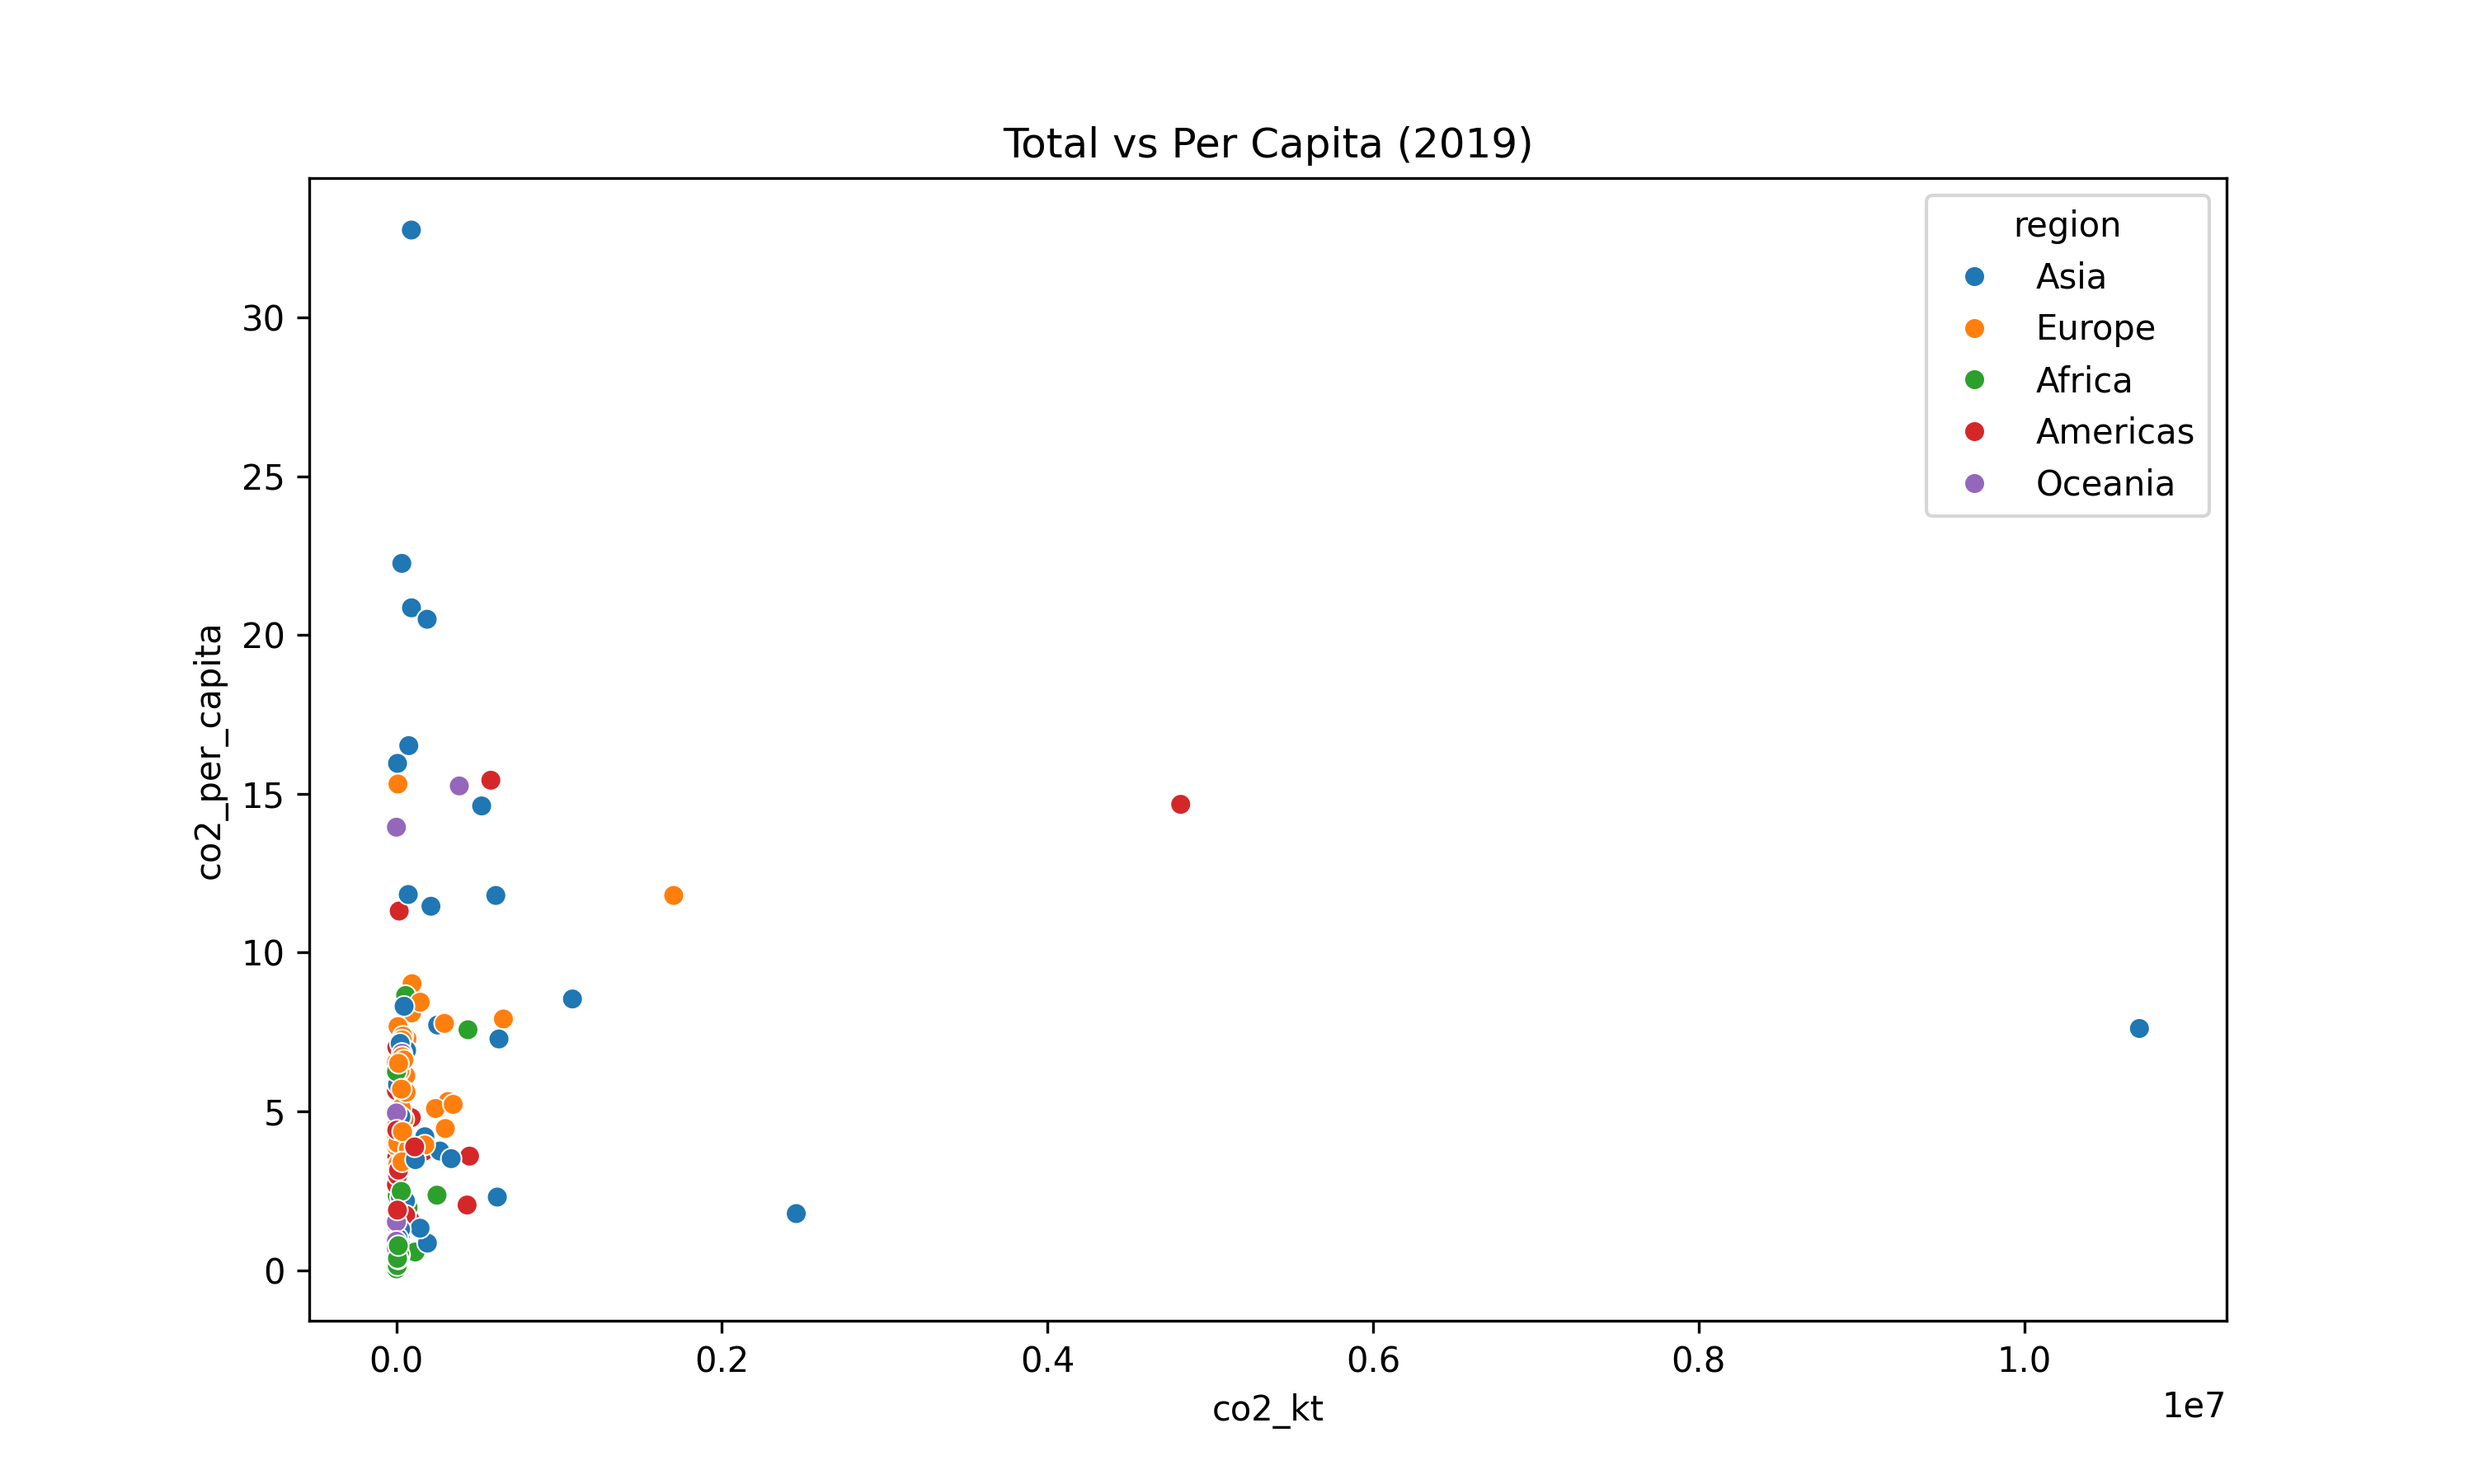
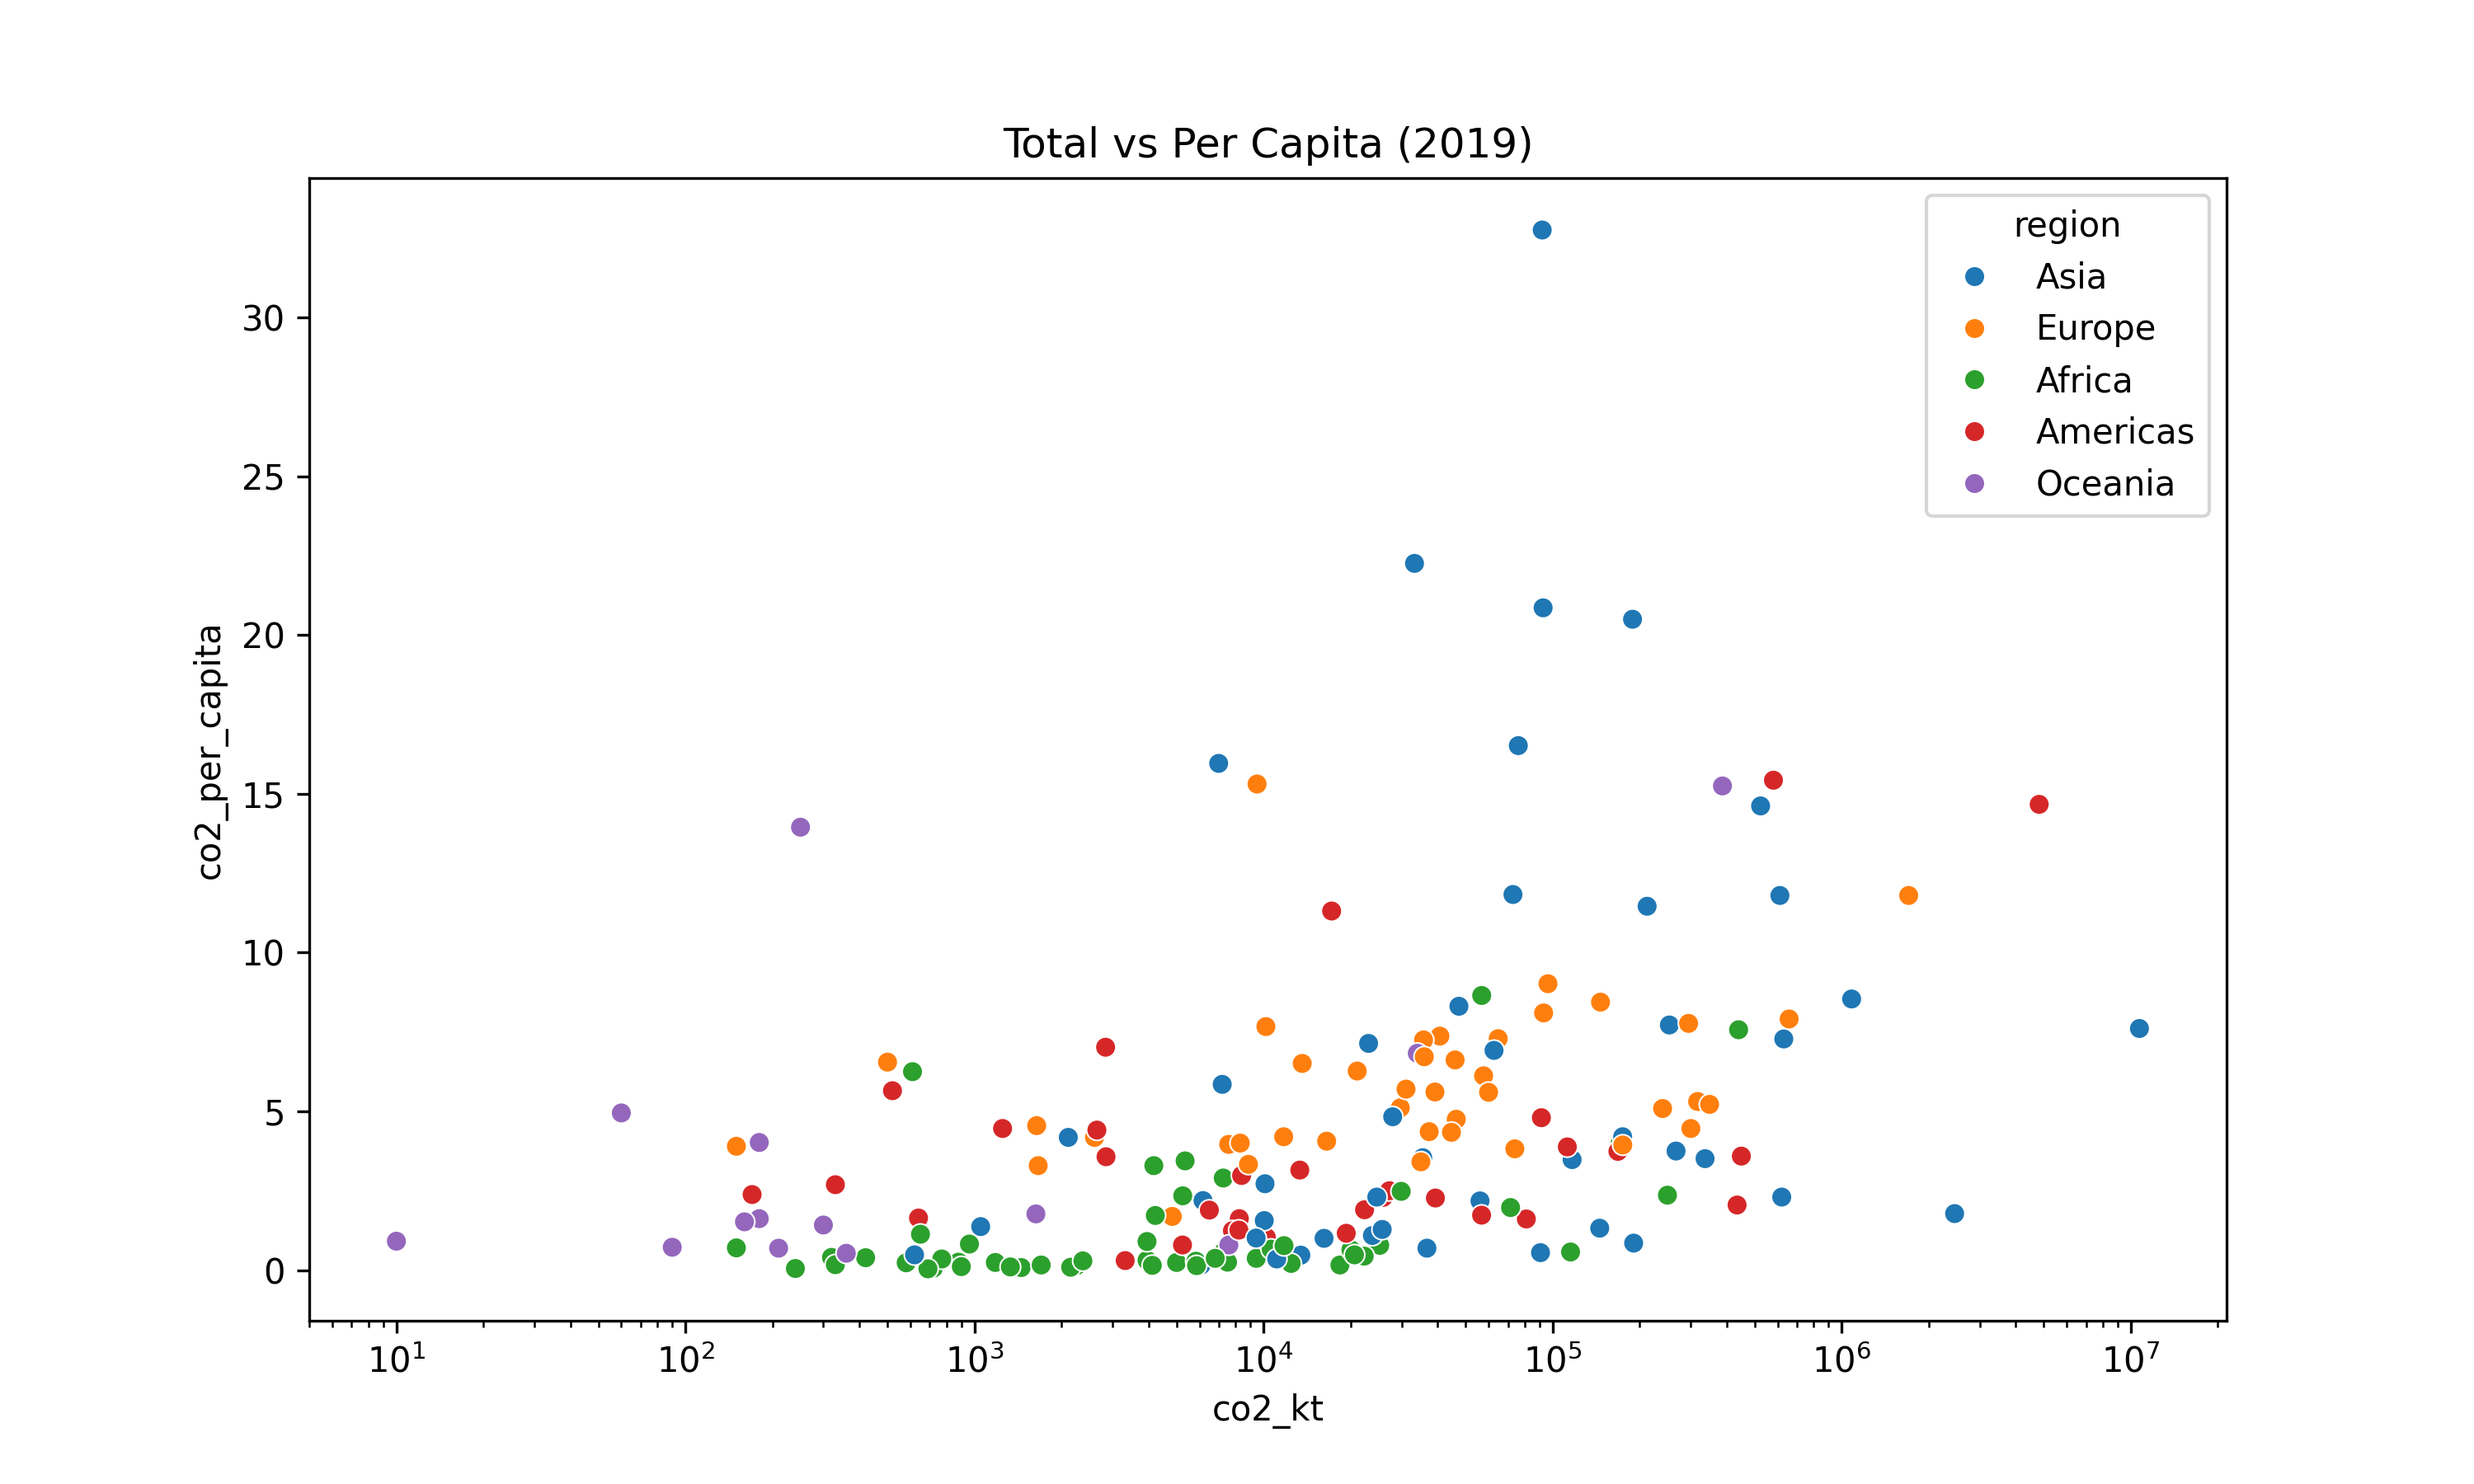
fix: atualizacao eixo x grafico comparacoes

diff --git a/new/maps.py b/new/maps.py
@@ -183,12 +183,21 @@ plt.close()
 
 plt.figure(figsize=(10, 6))
 
+# sns.scatterplot(
+#     data=df_year,
+#     x='co2_kt',
+#     y='co2_per_capita',
+#     hue='region'
+# )
+
 sns.scatterplot(
     data=df_year,
     x='co2_kt',
     y='co2_per_capita',
     hue='region'
 )
+
+plt.xscale('log')
 
 plt.title(f'Total vs Per Capita ({ANO})')
 plt.savefig(os.path.join(OUTPUT_DIR, "comparacoes", f"comparacao_{ANO}.png"), dpi=300)
